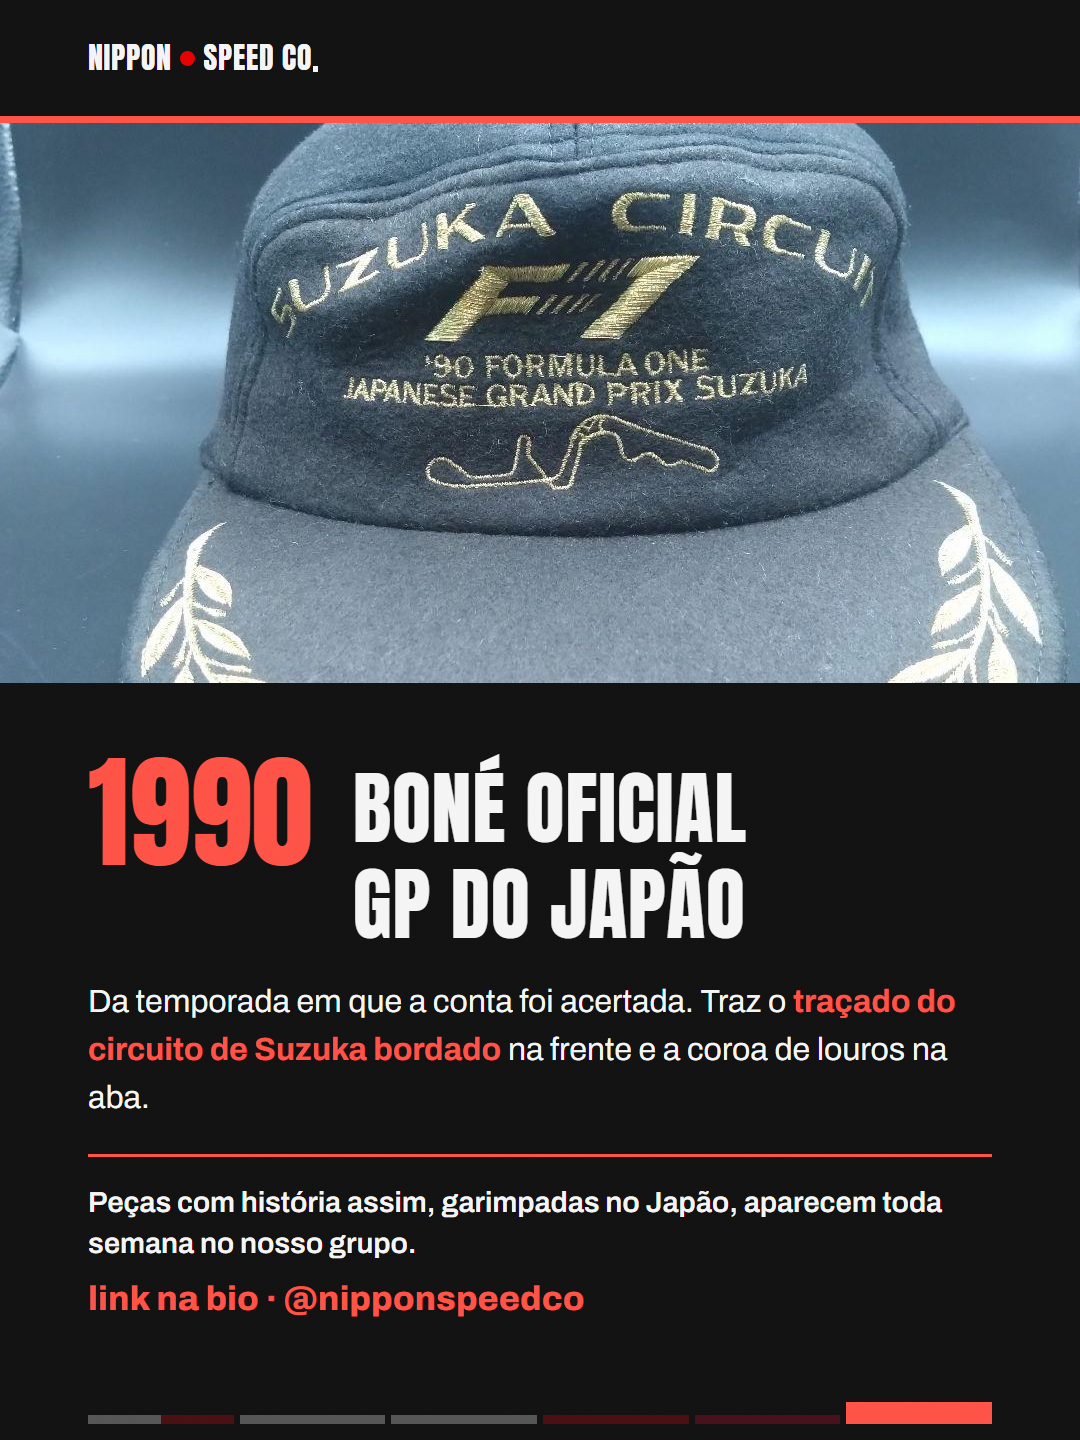
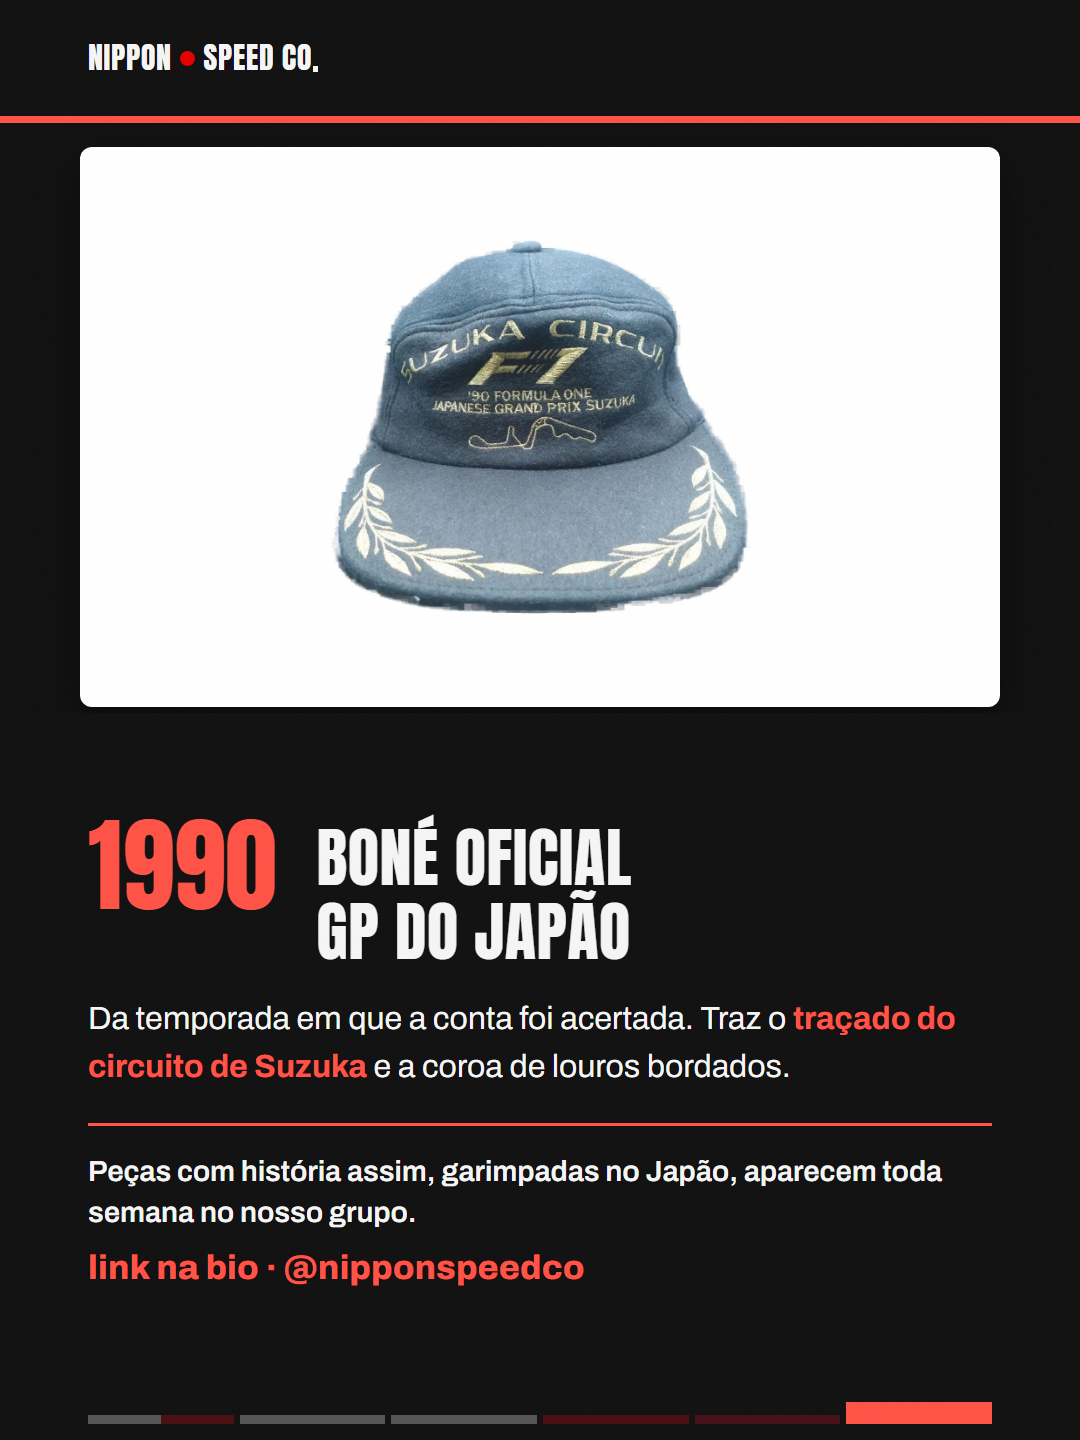
feat(exploracao): s6 - produto recortado (rembg, pixels reais) em card branco emoldurado, padroniza apresentacao do produto

diff --git a/marca/conteudo/exploracao/direcao-c-eras/post.html b/marca/conteudo/exploracao/direcao-c-eras/post.html
@@ -137,10 +137,18 @@ h1,h2{ font-family:"Anton",sans-serif; font-weight:400; margin:0; text-transform
 .field-red .ttl{ font-size:96px; margin-top:20px; }
 .field-red .bd{ font-size:34px; color:var(--paper); max-width:900px; }
 
-/* ---- s6 · a peça ---- */
+/* ---- s6 · a peça no CARD BRANCO ----
+   O produto é o herói do fecho: recortado (rembg, pixels reais preservados) e emoldurado num
+   card branco que flutua sobre o slide escuro. Padroniza a apresentação do produto e destaca a
+   peça do fundo. object-fit:contain = o boné inteiro aparece, sem corte. */
+.product-card{ flex:0 0 560px; height:560px; min-height:0; margin:24px 80px 6px;
+  border-radius:12px; background:var(--white); overflow:hidden;
+  display:flex; align-items:center; justify-content:center; padding:26px;
+  box-shadow:0 18px 46px rgba(0,0,0,.45); }
+.product-card img{ max-width:100%; max-height:100%; object-fit:contain; display:block; }
 .piece-head{ display:flex; align-items:flex-start; gap:40px; }
-.piece-yr{ font-family:"Anton",sans-serif; font-size:124px; line-height:.86; color:var(--red-bright); flex:0 0 auto; }
-.piece-name{ font-size:80px; line-height:1.2; }
+.piece-yr{ font-family:"Anton",sans-serif; font-size:104px; line-height:.86; color:var(--red-bright); flex:0 0 auto; }
+.piece-name{ font-size:64px; line-height:1.16; }
 .piece-bd{ margin:26px 0 0; font-size:32px; line-height:1.5; color:var(--paper); max-width:880px; }
 .piece-bd b{ font-weight:700; color:var(--red-bright); }
 .cta{ margin-top:32px; padding-top:26px; border-top:3px solid var(--red-bright); }
@@ -262,15 +270,15 @@ h1,h2{ font-family:"Anton",sans-serif; font-weight:400; margin:0; text-transform
 <section class="slide" id="s6">
   <header class="strip"><span class="wordmark">Nippon<span class="disc"></span>Speed Co<span class="sq"></span></span></header>
   <div class="era-rule era-gold"></div>
-  <figure class="well" style="flex:0 0 560px; margin:0">
-    <img src="foto.jpg" style="object-position:center 40%" alt="Boné oficial do GP do Japão de 1990 com o traçado de Suzuka bordado em dourado"/>
+  <figure class="product-card">
+    <img src="foto-cut.jpg" alt="Boné oficial do GP do Japão de 1990 recortado no branco, com o traçado do circuito de Suzuka e a coroa de louros bordados"/>
   </figure>
   <div class="field field-ink">
     <div class="piece-head">
       <span class="piece-yr">1990</span>
       <h2 class="piece-name">Boné oficial<br/>GP do Japão</h2>
     </div>
-    <p class="piece-bd">Da temporada em que a conta foi acertada. Traz o <b>traçado do circuito de Suzuka bordado</b> na frente e a coroa de louros na aba.</p>
+    <p class="piece-bd">Da temporada em que a conta foi acertada. Traz o <b>traçado do circuito de Suzuka</b> e a coroa de louros bordados.</p>
     <div class="cta">
       <p class="cta-line">Peças com história assim, garimpadas no Japão, aparecem toda semana no nosso grupo.</p>
       <span class="cta-handle">link na bio · @nipponspeedco</span>
